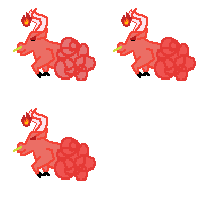
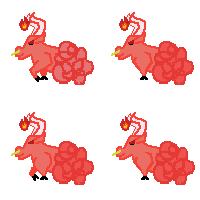
Nuevas animaciones del toro

diff --git a/MonkeyDelivery/Src/Logic/AnimationManager.h b/MonkeyDelivery/Src/Logic/AnimationManager.h
@@ -47,7 +47,7 @@ public:
 		if (SDL_GetTicks() - timer >= 500) {
 			xStaticFront_ += wPlayer_;
 			timer = SDL_GetTicks();
-			cout << "actulizar frame" << endl;
+			//cout << "actulizar frame" << endl;
 		}
 	}
 	inline void getFrameImagePlayer(SDL_Rect player, SDL_Rect& texturaRect, Texture* tex, int& timer,PlayerState state) {
@@ -115,16 +115,18 @@ public:
 	inline int getWidthBull() { return wBull_; };
 	inline int getHeigthBull() { return hBull_; };
 	inline void getFrameImageBull(SDL_Rect bull, SDL_Rect& texturaRect, Texture* tex, int& timer) {
-		if (SDL_GetTicks() - timer >= 200) {
+		if (SDL_GetTicks() - timer >= 500) {
 			texturaRect.x += wBull_;
+			if (texturaRect.y >= 100 && texturaRect.x >= 200) {
+				texturaRect.y = 0; texturaRect.x = 0;
+			}
 			if (texturaRect.x >= 200) {
 				texturaRect.x = 0;
 				texturaRect.y += hBull_;
 			}
-			if (texturaRect.y >= 100 && texturaRect.x >= 100) {
-				texturaRect.y = 0; texturaRect.x = 0;
-			}
+			
 			timer = SDL_GetTicks();
+			
 		}
 		tex->render(texturaRect, bull);
 	};

diff --git a/MonkeyDelivery/Src/Logic/Bull.cpp b/MonkeyDelivery/Src/Logic/Bull.cpp
@@ -12,6 +12,8 @@ Bull::Bull(Game* game, int Aleatorio, Point2D<int> centroRadio, AnimationManager
 	stop = true; //Patrulla y no persigue
 	setScariness(0.15);
 
+	timerAnimation = SDL_GetTicks();
+
 	textureRect = { 0, 0, animationManager->getWidthBull(),animationManager->getHeigthBull() };
 }
 
